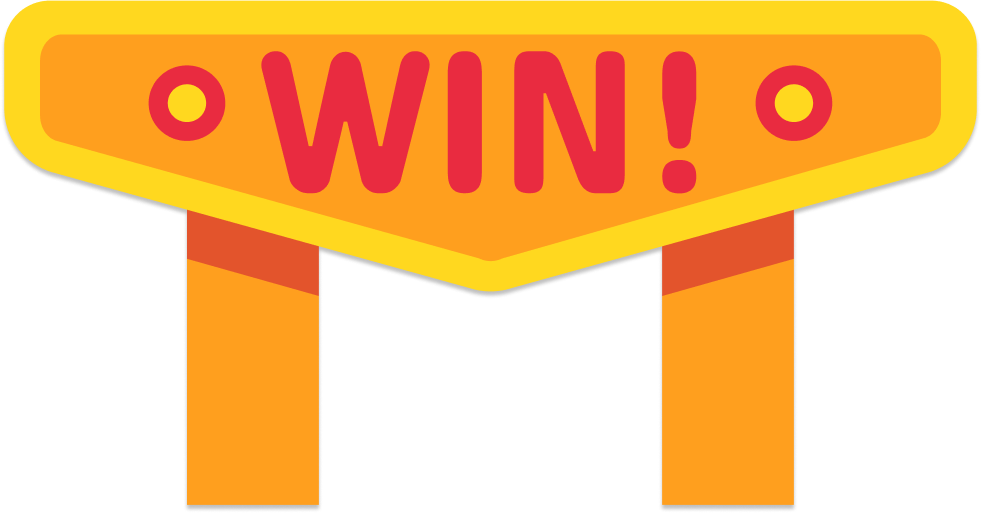
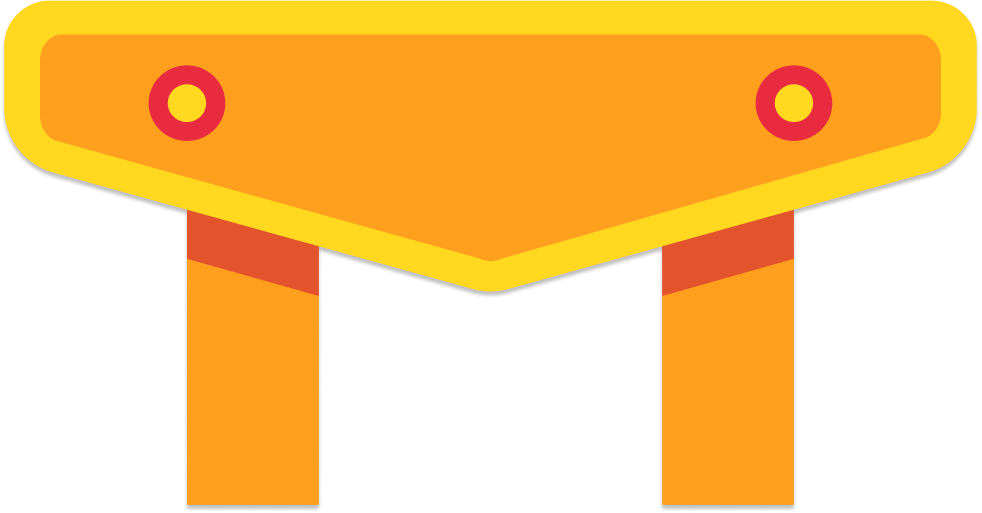
update wheel game

Changed region(s): [[0.2444, 0.0936, 0.4888, 0.3743], [0.5193, 0.0936, 0.6415, 0.3743], [0.6721, 0.0936, 0.7332, 0.3743]]

diff --git a/components/games/wheelScene.ts b/components/games/wheelScene.ts
@@ -13,7 +13,7 @@ let centerY = 0;
 let btnW = 0;
 let btnH = 0;
 let spinTimes = 5;
-let bonus = {};
+let bonus = [];
 let win_bone = [];
 let lose_bone = [];
 let win_probability = 0;
@@ -46,7 +46,9 @@ export default class WheelScene extends Phaser.Scene {
   private downUI : any;
   private arrow : any;
   private item : any;
-
+  private center: any;
+  private tiles: any[];
+  private imageTiles: any[];
 
   constructor(newGameType: string, newParams: any) {
     super();
@@ -57,6 +59,8 @@ export default class WheelScene extends Phaser.Scene {
   }
 
   preload() {
+    this.tiles = [];
+    this.imageTiles = [];
     w = this.game.canvas.clientWidth;
     h = this.game.canvas.clientHeight;
     wheelR = w / 1.2;
@@ -78,9 +82,11 @@ export default class WheelScene extends Phaser.Scene {
 
     this.load.audio("bg", "/pong/" + gameType + "/sfx/bgNoise.mp3");
 
-    console.log("Preload");
+    console.log(this.params);
 
     this.params.backgroundSprite = !!this.params.backgroundSprite? getImageWithSize(this.params.backgroundSprite, w, h) : "/pong/" + gameType + '/back3.jpg';
+    this.params.playerSprite = !!this.params.playerSprite? this.params.playerSprite : "/pong/" + gameType + '/star.png';
+    this.params.enemySprite = !!this.params.enemySprite? this.params.enemySprite : "/pong/" + gameType + '/lose.jpg';
 
 
     this.load.image('logo', this.params.logo);
@@ -97,9 +103,16 @@ export default class WheelScene extends Phaser.Scene {
 
     this.load.image('wheel', "/pong/" + gameType + '/center-circle.png');
     this.load.image('item', "/pong/" + gameType + '/item.png');
-    this.load.image('star', "/pong/" + gameType + '/star.png');
-    this.load.image('lose', "/pong/" + gameType + '/lose.png');
+    this.load.image('star', this.params.playerSprite);
+    this.load.image('lose', this.params.enemySprite);
     this.load.image('button', "/pong/" + gameType + '/spin.png');
+
+    // TILE PART
+    this.load.image('center', "/pong/" + gameType + '/center.png');
+    this.load.image('tileRed', "/pong/" + gameType + '/tile-red.png');
+    this.load.image('tileBlue', "/pong/" + gameType + '/tile-blue.png');
+    this.load.image('tileYellow', "/pong/" + gameType + '/tile-yellow.png');
+    this.load.image('tileGreen', "/pong/" + gameType + '/tile-green.png');
 
     this.load.spritesheet('prize-anim', "/pong/" + gameType + "/prize-anim.png", { frameWidth: 160, frameHeight: 320 });
     
@@ -130,7 +143,6 @@ export default class WheelScene extends Phaser.Scene {
     
     //this.add.sprite(centerX, centerY, 'ui-center').setOrigin(0.5, 0).setDisplaySize(centerW, centerH);
     
-
     
     // this.wheel.setScale(0.65);
     let offsetY = 50;
@@ -138,9 +150,11 @@ export default class WheelScene extends Phaser.Scene {
     this.add.sprite(w / 2, h / 2 + wheelR / 2 + offsetY, 'ui-btn-down').setDisplaySize(w / 4, w / 4 * 389 / 514);
     this.outCircle = this.add.sprite(w / 2, h / 2 + offsetY, 'out-circle').setDisplaySize(wheelR, wheelR);
 
-    this.wheel=this.add.sprite(w/2, h/2 + offsetY,'wheel').setDisplaySize(wheelR * 0.8, wheelR * 0.8);
+    // this.wheel=this.add.sprite(w/2, h/2 + offsetY,'wheel').setDisplaySize(wheelR * 0.8, wheelR * 0.8);
+    this.game_text=this.add.text(10,10 + offsetY,"Tap to Spin",this.font_style).setVisible(false);
 
-    this.arrow = this.add.sprite(w / 2, h / 2 - 15 + offsetY, 'center-arrow').setDisplaySize(w / 10, w / 10 * 281 / 155);
+    this.wheel = this.add.sprite(w/2, h/2 + offsetY, 'center').setDisplaySize(wheelR * 0.16, wheelR * 0.16);
+
     
     this.item = this.add.sprite(w/2, h/2 + offsetY, 'item').setDisplaySize(wheelR * 0.7, wheelR * 0.7 * 927 / 1022);
 
@@ -168,10 +182,10 @@ export default class WheelScene extends Phaser.Scene {
         fontSize: "15px",
     }
     this.font_score={
-        font:"bold 15px Roboto",
+        fontFamily: 'customFont', 
+        fontSize: '35px', 
         align:"center",
-        color:"white",
-        fontSize: "15px",
+        fill: '#ffffff' 
     }
 
     this.font_text_style = { 
@@ -181,12 +195,7 @@ export default class WheelScene extends Phaser.Scene {
       fill: '#ffffff' 
     }
     
-    this.game_text=this.add.text(10,10 + offsetY,"Tap to Spin",this.font_style).setVisible(false);
-    // this.game_text=this.add.text(10,10,"Welcome to Spin & Win",this.font_style);
 
-    this.score_text = this.add.text(w - 70, 10 + offsetY,"Score : 0",  this.font_score).setVisible(false);
-
-    this.result_text = this.add.text(w / 2, h / 2 + offsetY, "SPIN AGAIN!", this.font_text_style).setOrigin(0.5, 0.5).setAlpha(0);
 
     // BONUS TEXT PART
     // this.bonus_top = this.add.sprite(w/2 + 10, h / 2 - wheelR / 2 - 100 + offsetY, 'bonus').setDisplaySize(wheelR * 0.15, wheelR * 0.15);
@@ -199,10 +208,6 @@ export default class WheelScene extends Phaser.Scene {
 
     var but = this.add.image(w / 2, h / 2 + wheelR / 2 + 35 + offsetY, 'ui-btn').setDisplaySize(w / 2.5, w / 2.5 * 0.4).setOrigin(0.5, 0).setInteractive();
     but.on('pointerup', this.spinwheel, this);
-    // but.setScale(0.6);
-
-    // var btn = this.add.image(centerX, centerY + centerH - 100, 'ui-btn-down').setDisplaySize(w / 3, 50).setInteractive();
-    // btn.on('pointerup', this.spinwheel, this);
 
 
     this.music = this.sound.add('audio1');
@@ -220,51 +225,66 @@ export default class WheelScene extends Phaser.Scene {
 
     this.initGame();
 
-    bonus = {
-      0 : {
-        amount: 20,
-        type: "bonus"
-      },
-      1 : {
-        amount: 0,
-        type: "lose"
-      },
-      2 : {
-        amount: 1,
-        type: "spin"
-      },
-      3 : {
-        amount: 20,
-        type: "bonus"
-      },
-      4 : {
-        amount: 0,
-        type: "lose"
-      },
-      5 : {
-        amount: 20,
-        type: "bonus"
-      },
-      6 : {
-        amount: 0,
-        type: "lose"
-      },
-      7 : {
-        amount: 1,
-        type: "spin"
-      },
-      8 : {
-        amount: 20,
-        type: "bonus"
-      },
-      9 : {
-        amount: 0,
-        type: "lose"
-      },
+    win_probability = this.params.winProbability;
 
+    let endTileCount = 2;
+    if(win_probability <= 0.3) {
+      endTileCount = 2;
+    } else if(win_probability <= 0.6){
+      endTileCount = 4;
+    } else if(win_probability <= 0.8){
+      endTileCount = 6;
+    } else if(win_probability <= 1){
+      endTileCount = 8;
     }
 
-    win_bone = [0, 3, 5, 8]
+
+    let shuffledArr = [];
+    for(let i = 0; i < 10; i++) {
+      if(i < endTileCount) {
+        shuffledArr.push({
+          amount: 0,
+          type: "lose"
+        });
+      } else {
+        let point = Math.ceil(Math.random() * 10) % 3;
+        let scoreArry = [50, 10, 25];
+        shuffledArr.push({
+          amount: scoreArry[point],
+          type: "bonus"
+        })
+      }
+    }
+
+    bonus = shuffledArr.sort(() => Math.random() - 0.5);
+
+
+    bonus.forEach(p => {
+      let type = 'tileRed';
+      let bonusType = 'lose';
+      if(p.type === "bonus"){
+        if(p.amount == 10) {
+          type = 'tileYellow'
+        } else if(p.amount == 25) {
+          type = 'tileBlue'
+        } else if(p.amount == 50) {
+          type = 'tileGreen';
+        }
+        bonusType = 'star'
+      }
+      this.tiles.push(this.add.sprite(w/2, h/2 + offsetY, type).setDisplaySize(wheelR * 0.3 * 309 / 437, wheelR * 0.3).setOrigin(0.5, -0.35));
+
+      this.imageTiles.push(this.add.sprite(w/2, h/2 + offsetY, bonusType).setDisplaySize(wheelR * 0.1, wheelR * 0.1).setOrigin(0.5, -2.5).setFlipY(true));
+
+    })
+
+    this.arrow = this.add.sprite(w / 2, h / 2 - 15 + offsetY, 'center-arrow').setDisplaySize(w / 10, w / 10 * 281 / 155);
+
+    this.score_text = this.add.text(this.base.x, this.base.y - 25, "0",  this.font_score).setOrigin(0.5, 0.5).setVisible(true);
+
+    this.result_text = this.add.text(w / 2, h / 2 + offsetY, "SPIN AGAIN!", this.font_text_style).setOrigin(0.5, 0.5).setAlpha(0);
+
+    win_bone = [0, 1, 2, 3, 4, 5, 6, 7, 8, 9]
     lose_bone = [1, 4, 6, 9]
   }
 
@@ -299,11 +319,15 @@ export default class WheelScene extends Phaser.Scene {
     let rounds = Phaser.Math.Between(5, 8);
     var degree=Phaser.Math.Between(0, deltaAmount - 1) * deltaDegree;
     
-    if(Math.random() > win_probability) {
-      degree = 9 - win_bone[Math.round(100 * Math.random()) % win_bone.length];
-    } else {
-      degree = 9 - lose_bone[Math.round(100 * Math.random()) % lose_bone.length];
-    }
+    // if(Math.random() > win_probability) {
+    //   degree = 9 - win_bone[Math.round(100 * Math.random()) % win_bone.length];
+    // } else {
+    //   degree = 9 - lose_bone[Math.round(100 * Math.random()) % lose_bone.length];
+    // }
+
+    degree = win_bone[Math.round(100 * Math.random()) % win_bone.length];
+
+
     console.log(degree, "--------------selelct", bonus[degree])
 
     degree = degree * deltaDegree;
@@ -337,32 +361,14 @@ export default class WheelScene extends Phaser.Scene {
 
     if(type == 'bonus') {
 
-      // this.bonus_top.setScale(0)
-      // .setAlpha(0)
-
-      // this.tweens.add({
-      //   targets: this.bonus_top,
-      //   scaleX: 0.2, // Scale to 1 (original size)
-      //   scaleY: 0.2,
-      //   alpha: 1, // Fade in to full opacity
-      //   duration: 600, // Duration of the animation in milliseconds
-      //   ease: 'Bounce', // Easing function for a bouncing effect
-      // });
-
-      // setTimeout(() => {
-      //   if(!!this.bonus_top) {
-      //     this.bonus_top.setAlpha(0);
-      //   }
-      // }, 2000);
-
-      resultText = "YOU WIN!"
+      resultText = `YOU GET + ${amount}`
       this.win.play();
       counter += amount;
       this.prizeAnim.play('prize')
 
     } else if(type == 'lose') {
       spinTimes -= amount;
-      resultText = "NO LUCK!"
+      resultText = "GAME END"
       this.lose.play();
 
     } else if(type == 'spin') {
@@ -372,7 +378,7 @@ export default class WheelScene extends Phaser.Scene {
       this.prizeAnim.play('prize')
     }
     this.game_text.setText("spins " + spinTimes);
-    this.score_text.setText("Score : " + counter);
+    this.score_text.setText(counter);
 
     this.result_text.setText(resultText);
 
@@ -394,10 +400,10 @@ export default class WheelScene extends Phaser.Scene {
       }
     }, 2000);
 
-    if(type == 'bonus') {
+    if(type == 'lose') {
       setTimeout(() => {
        this.endRound();
-      }, 4000);
+      }, 2000);
     }
   }
 
@@ -411,9 +417,18 @@ export default class WheelScene extends Phaser.Scene {
 
   }
 
+  initTilePosition() {
+    if(this.tiles.length == 10 && this.imageTiles.length == 10) {
+      this.tiles.forEach((tile, i) => {
+        const originAngle = this.wheel.angle;
+        const angle = originAngle + 360 / 10 * i + 180;
+        tile.setAngle(angle);
+        this.imageTiles[i].setAngle(angle);
+      })
+    }
+  }
 
   update(time, delta) {
-    // this.aiUpdate(time, delta);
-
+    this.initTilePosition();    
   }
 }

diff --git a/pages/ad/[id].js b/pages/ad/[id].js
@@ -267,7 +267,7 @@ export async function getServerSideProps(context) {
   const { deviceIdSignIn } = context?.query;
 
   let externalId = null;
-  let em = platform.toString();
+  let em = platform?.toString() ?? null;
 
   if (user && platform) {
     const emailAddress = decryptEmail(user, platform);
